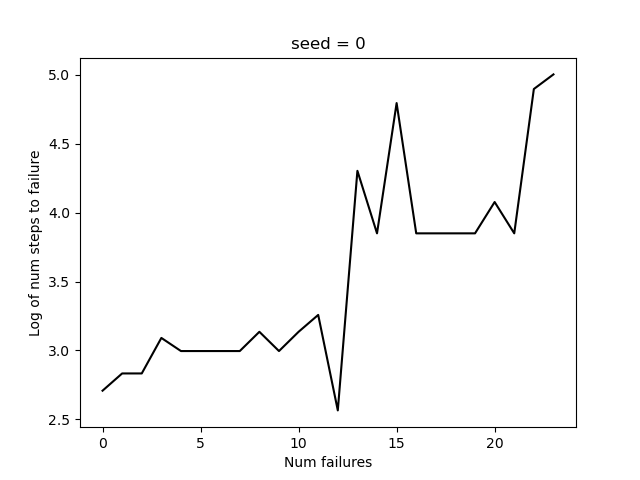
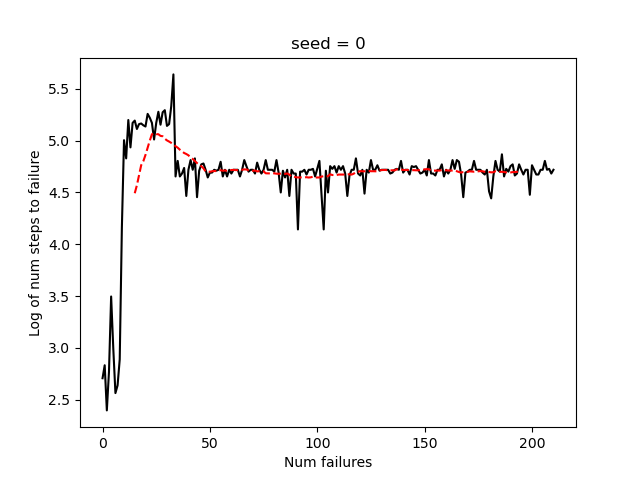
bug fixed

diff --git a/Problem Set 4/code/src/p06_cartpole.py b/Problem Set 4/code/src/p06_cartpole.py
@@ -197,7 +197,7 @@ def update_mdp_transition_probs_reward(mdp_data):
                 mdp_data['transition_probs'][state,:, action] /= num_counts_new_states[state, action]
         # check if the state has ever been reached
         if reward_counts[state, 1] != 0:
-            mdp_data['reward', state] = -1 * reward_counts[state, 0] / reward_counts[state, 1]
+            mdp_data['reward'][state] = -1 * reward_counts[state, 0] / reward_counts[state, 1]
     # *** END CODE HERE ***
 
     # This function does not return anything
@@ -243,7 +243,7 @@ def update_mdp_value(mdp_data, tolerance, gamma):
 
 def main(plot=True):
     # Seed the randomness of the simulation so this outputs the same thing each time
-    seed = 0
+    seed = 3
     np.random.seed(seed)
 
     # Simulation parameters
